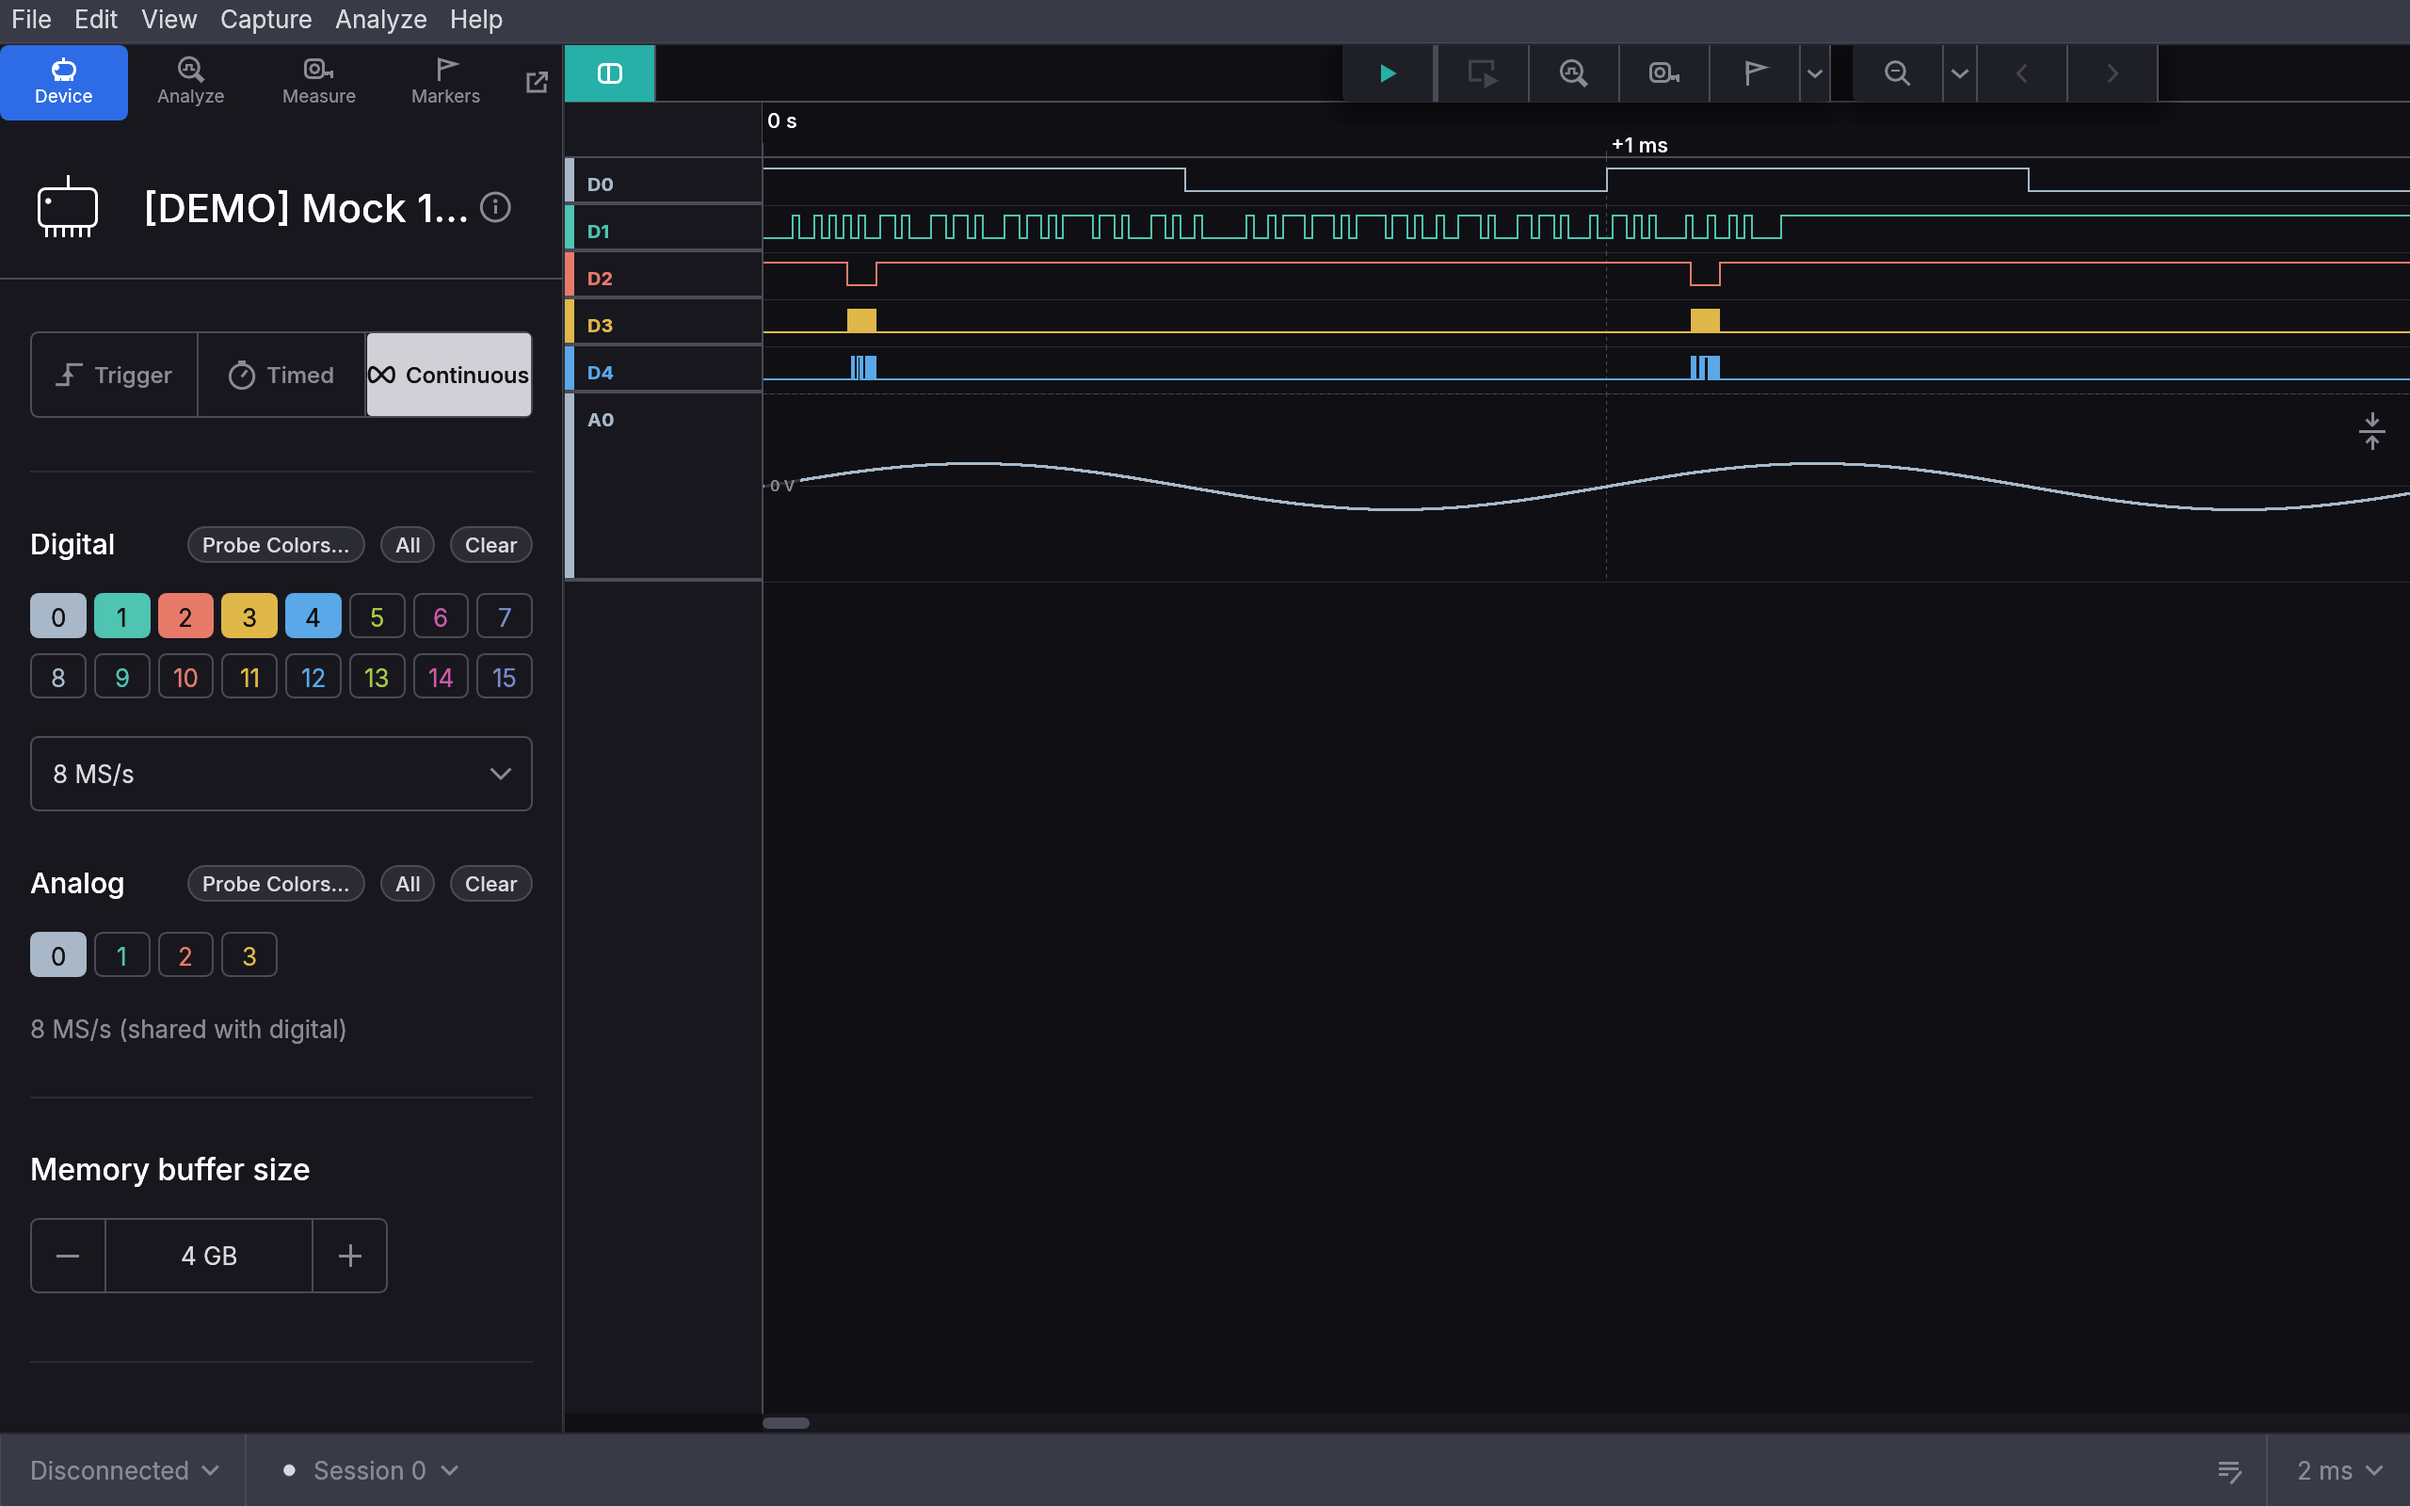
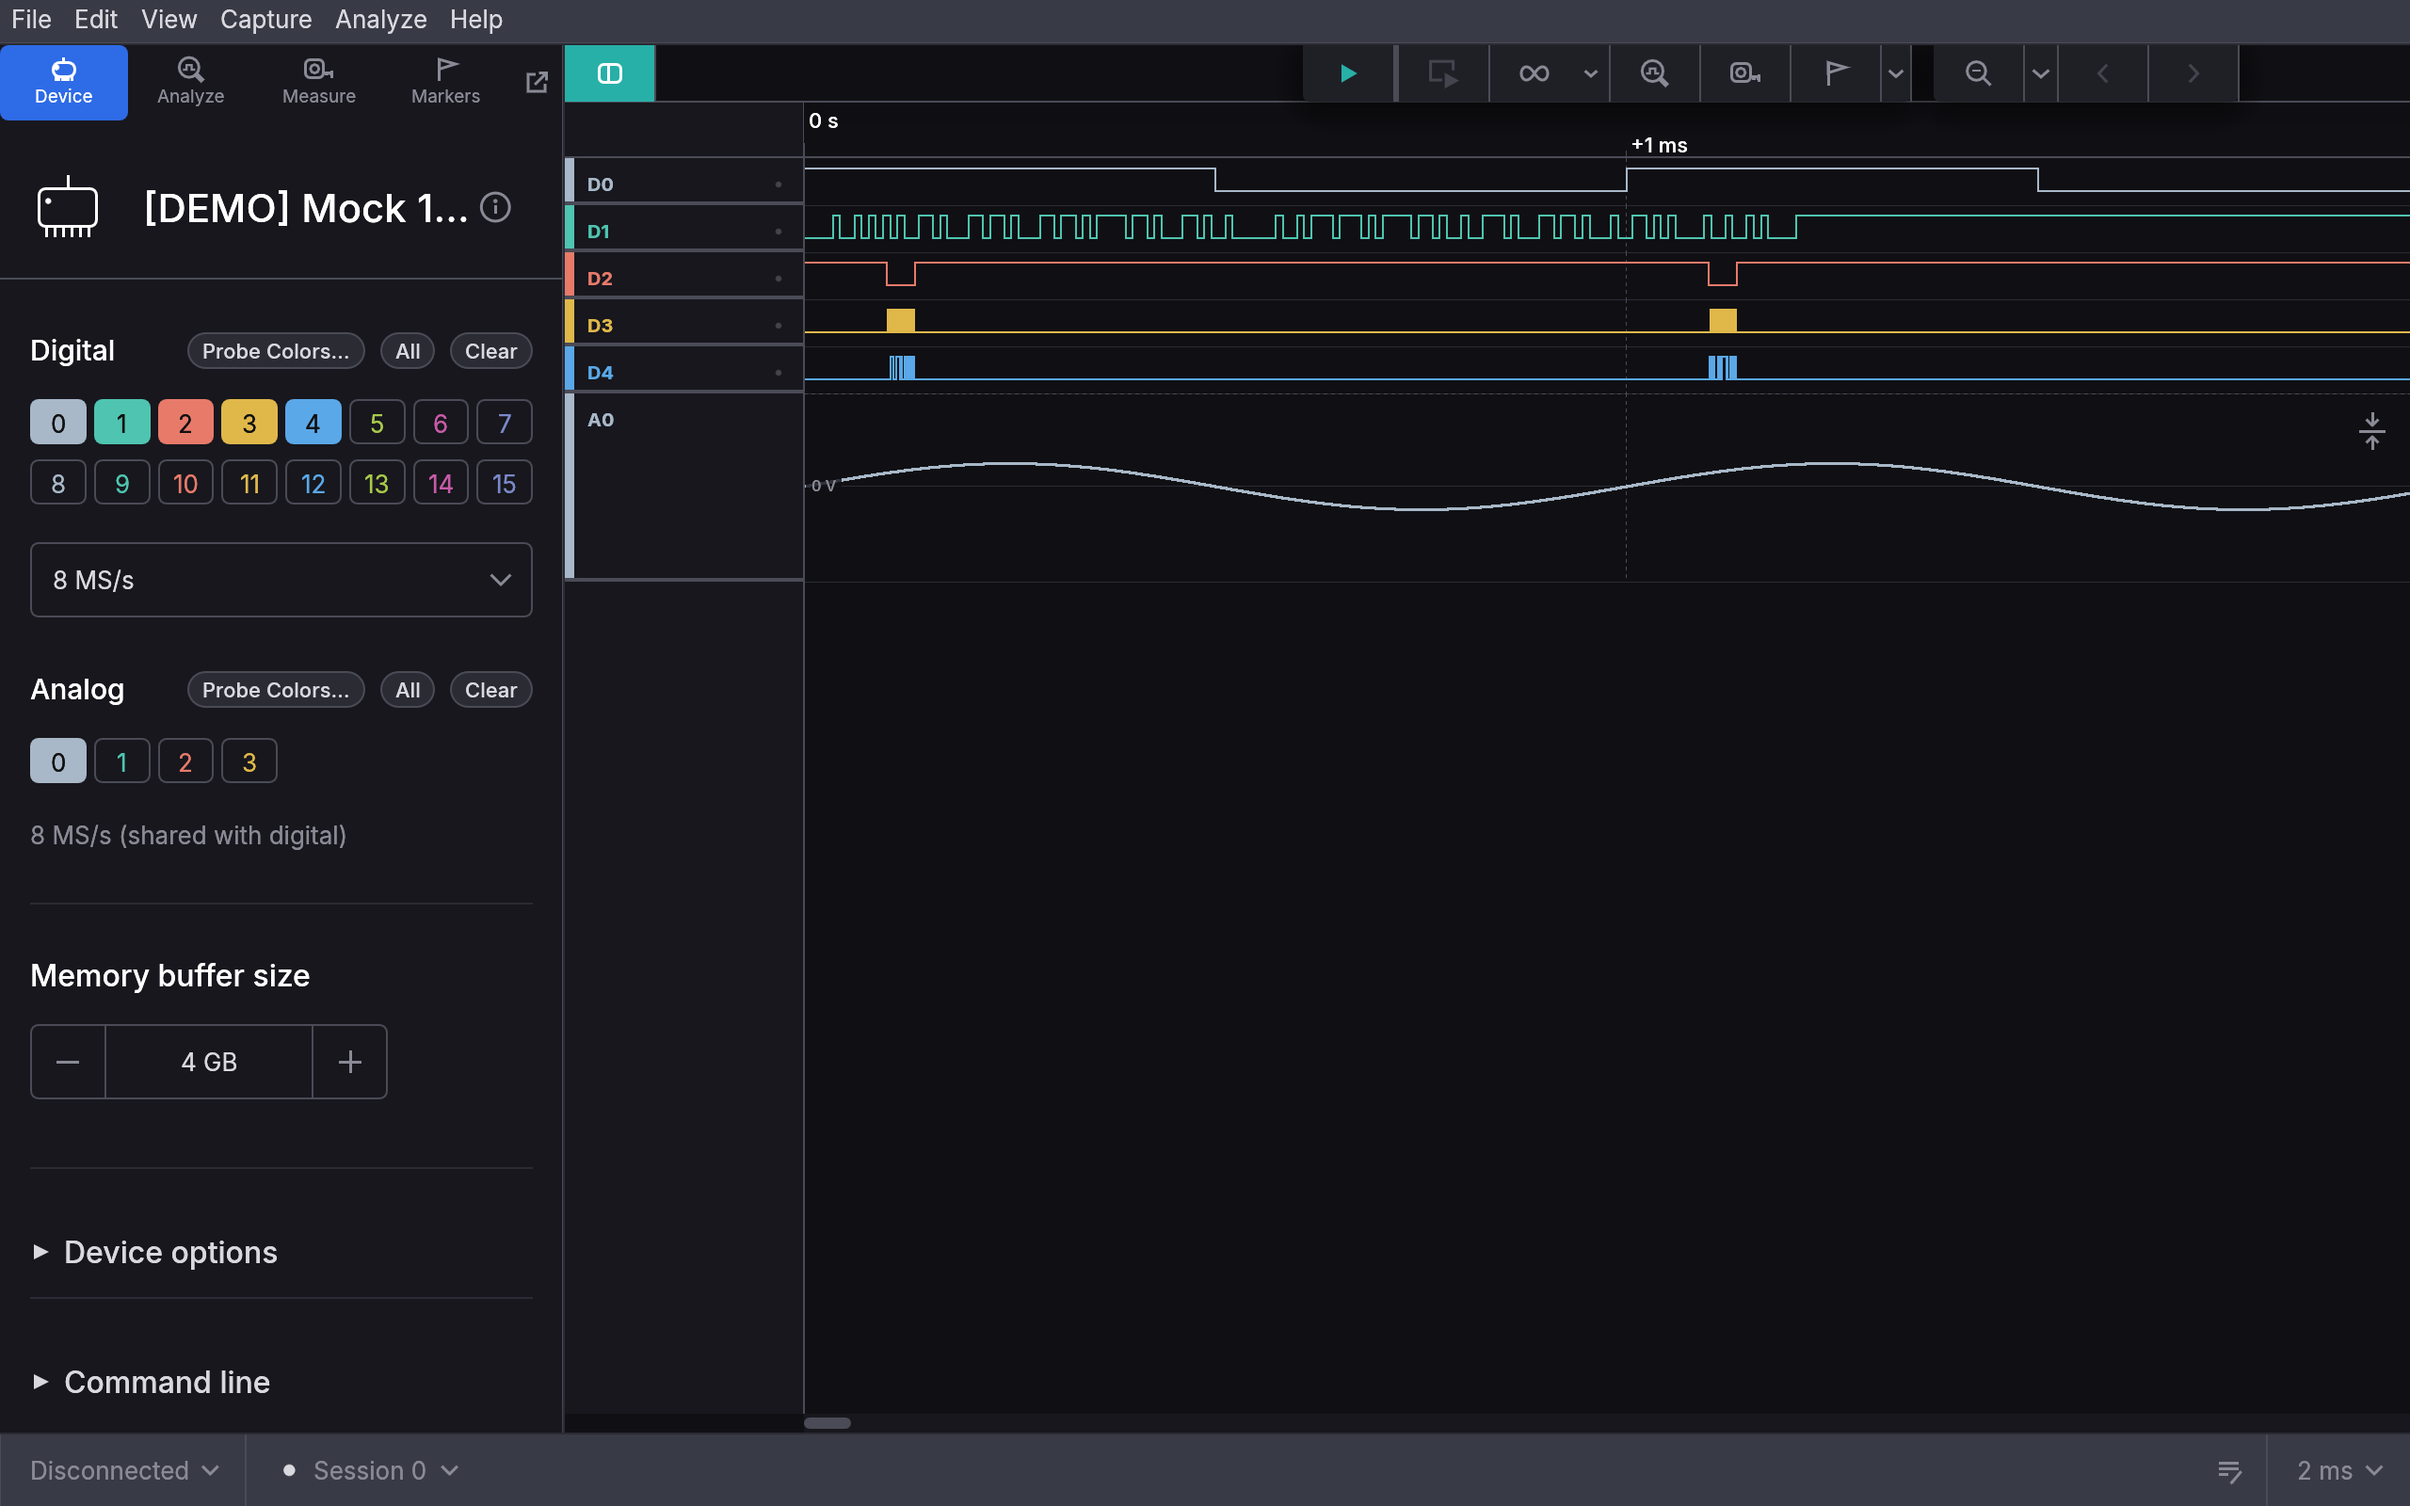
Update version references to 0.3.0-alpha.1 (cli and ui)
- Install pages (en/zh/es): 0.2.0 -> 0.3.0-alpha.1, and say again that a
  pre-release needs the version pinned: without it cargo installs the
  last stable release, 0.2.0
- Getting-started pages (en/zh/es): version banner 0.2.0 -> 0.3.0-alpha.1
- UI screenshots and data/ui.json synced from oxrok-ui 0.3.0-alpha.1
- Device stubs regenerated: seven titles changed in oxrok's drivers.toml

Built against the release/0.3.0-alpha.1 branches of oxrok and oxrok-ui;
the tags are not out yet.

diff --git a/content/es/install.md b/content/es/install.md
@@ -2,17 +2,17 @@
 title: Instalar
 ---
 
-Un solo binario, compilado solo con `cargo`, con compilaciones estáticas para Linux, macOS y Windows. La última versión es 0.2.0.
+Un solo binario, compilado solo con `cargo`, con compilaciones estáticas para Linux, macOS y Windows. La última versión es 0.3.0-alpha.1, una versión preliminar, así que fija la versión.
 
 ## Desde crates.io
 
 Con Rust 1.95 o más reciente:
 
 ```
-cargo install oxrok --version 0.2.0 --locked
+cargo install oxrok --version 0.3.0-alpha.1 --locked
 ```
 
-O, desde un checkout, que incluye lo fusionado desde entonces:
+Sin la versión, cargo instala la última versión estable, 0.2.0. O, desde un checkout, que incluye lo fusionado desde entonces:
 
 ```
 cargo install --path . --locked

diff --git a/content/zh/install.md b/content/zh/install.md
@@ -2,17 +2,17 @@
 title: 安装
 ---
 
-单个二进制，仅用 `cargo` 构建，为 Linux、macOS 和 Windows 提供静态构建。最新版本是 0.2.0。
+单个二进制，仅用 `cargo` 构建，为 Linux、macOS 和 Windows 提供静态构建。最新版本是 0.3.0-alpha.1，这是一个预发布版本，所以请固定版本号。
 
 ## 从 crates.io 安装
 
 需要 Rust 1.95 或更新版本：
 
 ```
-cargo install oxrok --version 0.2.0 --locked
+cargo install oxrok --version 0.3.0-alpha.1 --locked
 ```
 
-或者，从源码检出安装（包含合并之后的内容）：
+不指定版本号时，cargo 会安装最近的稳定版本 0.2.0。或者，从源码检出安装（包含合并之后的内容）：
 
 ```
 cargo install --path . --locked

diff --git a/content/install.md b/content/install.md
@@ -3,17 +3,19 @@ title: Install
 ---
 
 One binary, built with `cargo` alone, with static builds for Linux, macOS and
-Windows. The latest release is 0.2.0.
+Windows. The latest release is 0.3.0-alpha.1, a pre-release, so pin the
+version.
 
 ## From crates.io
 
 With Rust 1.95 or newer:
 
 ```
-cargo install oxrok --version 0.2.0 --locked
+cargo install oxrok --version 0.3.0-alpha.1 --locked
 ```
 
-Or, from a checkout, which has what was merged since:
+Without the version, cargo installs the last stable release, 0.2.0. Or, from
+a checkout, which has what was merged since:
 
 ```
 cargo install --path . --locked

diff --git a/content/start.md b/content/start.md
@@ -48,7 +48,7 @@ picks the output format.
 <div class="term">
   <button class="copy" type="button">copy</button>
   <pre><span class="prompt">$</span> <span class="cmd">oxrok -d demo --samples 4 -O bits</span>
-oxrok 0.2.0
+oxrok 0.3.0-alpha.1
 Acquisition with 8/13 channels at 200 kHz
 A0: -10.0000 V DC
 A0: -10.0000 V DC

diff --git a/content/es/start.md b/content/es/start.md
@@ -46,7 +46,7 @@ Channel groups:
 <div class="term">
   <button class="copy" type="button">copiar</button>
   <pre><span class="prompt">$</span> <span class="cmd">oxrok -d demo --samples 4 -O bits</span>
-oxrok 0.2.0
+oxrok 0.3.0-alpha.1
 Acquisition with 8/13 channels at 200 kHz
 A0: -10.0000 V DC
 A0: -10.0000 V DC

diff --git a/content/zh/start.md b/content/zh/start.md
@@ -46,7 +46,7 @@ Channel groups:
 <div class="term">
   <button class="copy" type="button">复制</button>
   <pre><span class="prompt">$</span> <span class="cmd">oxrok -d demo --samples 4 -O bits</span>
-oxrok 0.2.0
+oxrok 0.3.0-alpha.1
 Acquisition with 8/13 channels at 200 kHz
 A0: -10.0000 V DC
 A0: -10.0000 V DC

diff --git a/content/devices/siglent-sdl10x0.md b/content/devices/siglent-sdl10x0.md
@@ -1,5 +1,5 @@
 ---
 key: siglent-sdl10x0
-title: Siglent SDL10x0
+title: Siglent SDL1000X electronic loads
 type: devices
 ---

diff --git a/content/es/devices/siglent-sdl10x0.md b/content/es/devices/siglent-sdl10x0.md
@@ -1,5 +1,5 @@
 ---
 key: siglent-sdl10x0
-title: Siglent SDL10x0
+title: Siglent SDL1000X electronic loads
 type: devices
 ---

diff --git a/content/zh/devices/siglent-sdl10x0.md b/content/zh/devices/siglent-sdl10x0.md
@@ -1,5 +1,5 @@
 ---
 key: siglent-sdl10x0
-title: Siglent SDL10x0
+title: Siglent SDL1000X electronic loads
 type: devices
 ---

diff --git a/content/devices/scpi-pps.md b/content/devices/scpi-pps.md
@@ -1,5 +1,5 @@
 ---
 key: scpi-pps
-title: SCPI PPS (generic)
+title: SCPI power supplies (generic)
 type: devices
 ---

diff --git a/content/es/devices/scpi-pps.md b/content/es/devices/scpi-pps.md
@@ -1,5 +1,5 @@
 ---
 key: scpi-pps
-title: SCPI PPS (generic)
+title: SCPI power supplies (generic)
 type: devices
 ---

diff --git a/content/zh/devices/scpi-pps.md b/content/zh/devices/scpi-pps.md
@@ -1,5 +1,5 @@
 ---
 key: scpi-pps
-title: SCPI PPS (generic)
+title: SCPI power supplies (generic)
 type: devices
 ---
